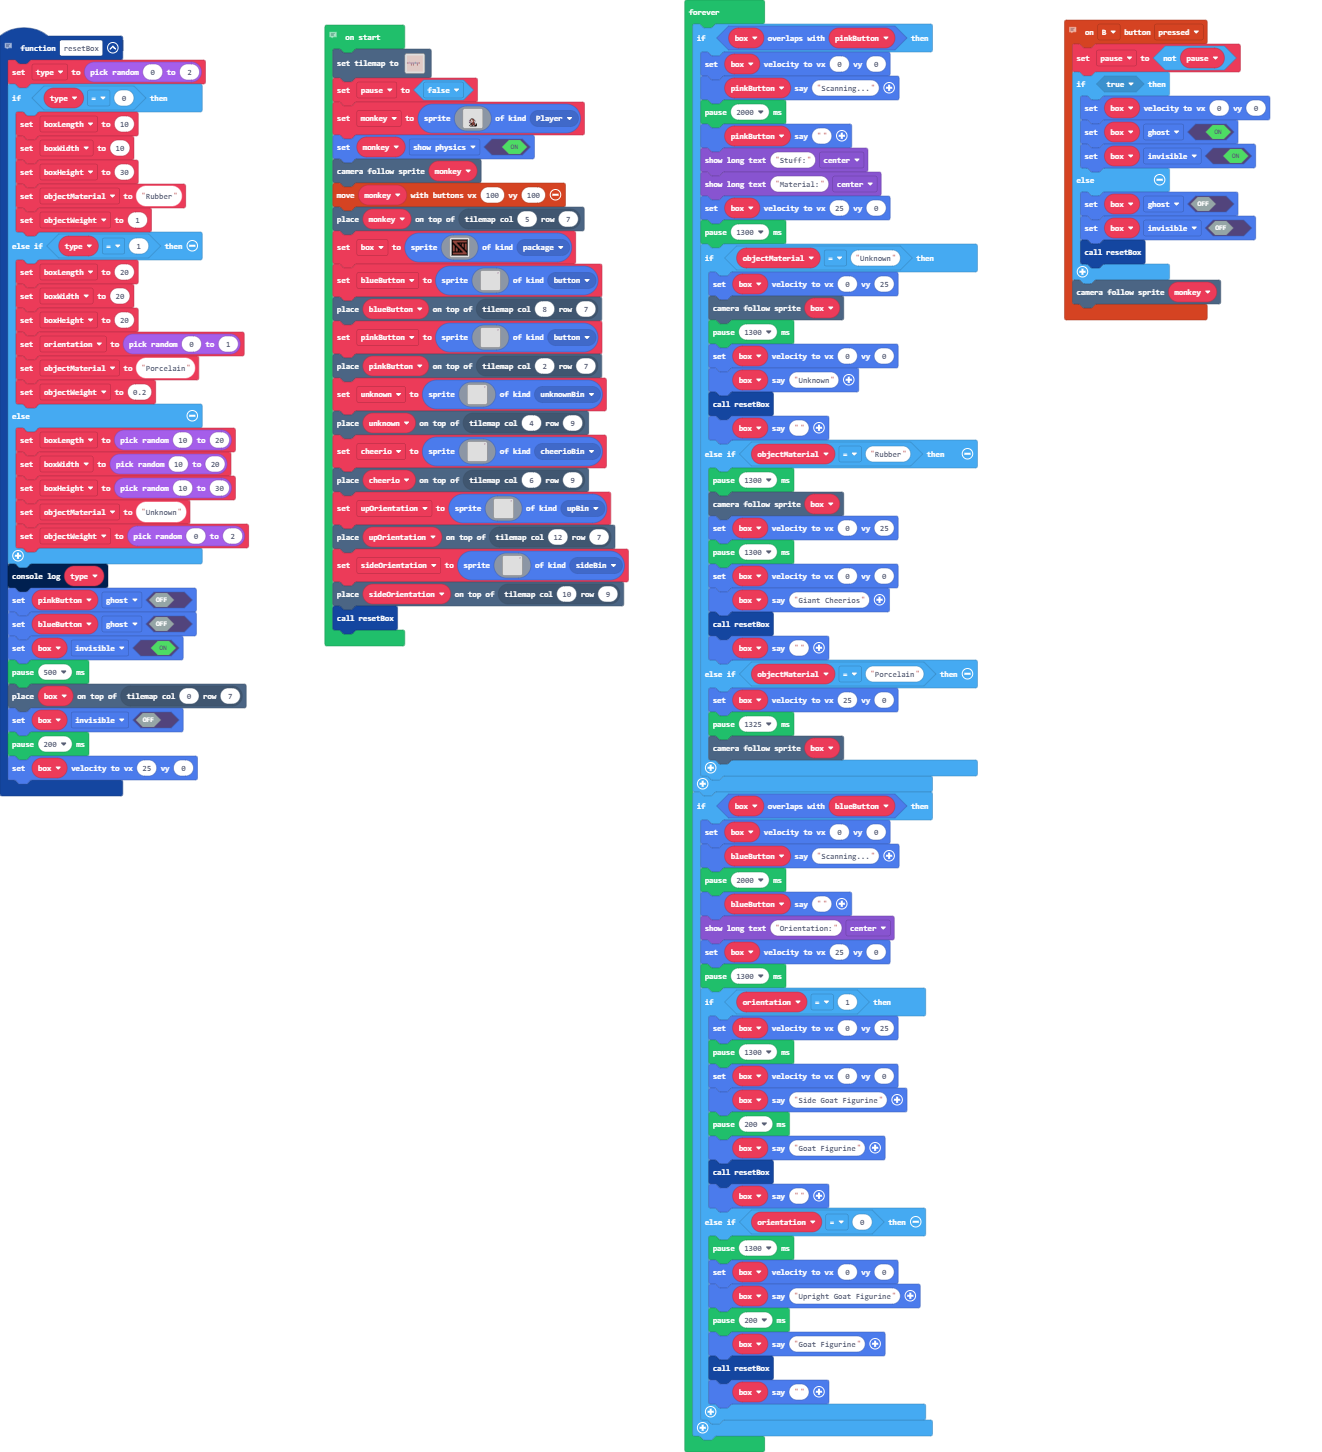
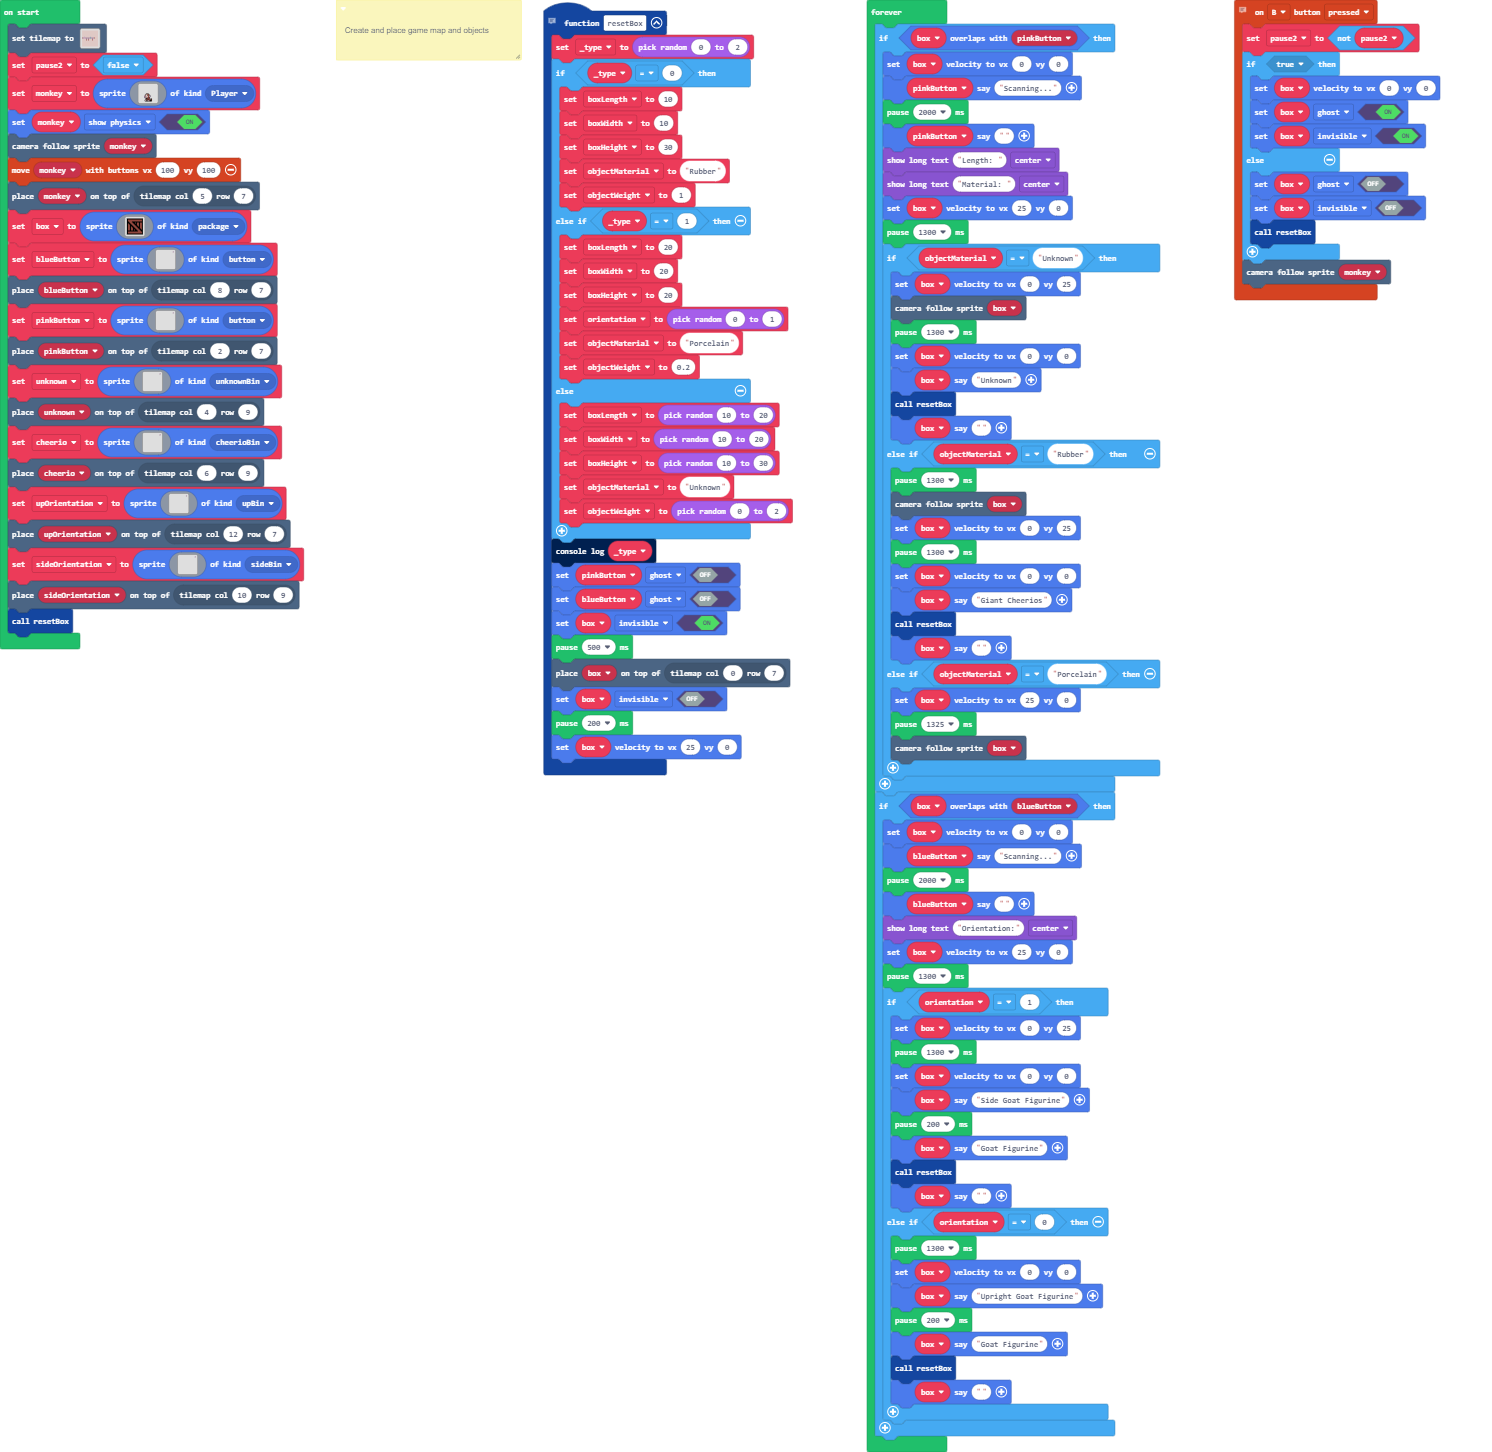
Update pxt.json, main.blocks, main.ts, tilemap.g.jres, tilemap.g.ts

diff --git a/main.ts b/main.ts
@@ -55,7 +55,9 @@ function resetBox () {
     pause(200)
     box.setVelocity(25, 0)
 }
-// Create and place game map and objects
+/**
+ * Create and place game map and objects
+ */
 let orientation = 0
 let objectWeight = 0
 let objectMaterial = ""
@@ -68,24 +70,7 @@ let blueButton: Sprite = null
 let box: Sprite = null
 let monkey: Sprite = null
 let pause2 = false
-tiles.setTilemap(tiles.createTilemap(hex`1000100004040404040404040404040404040404040404040404040404040404040404040404040404040404040404040404040404040404040404040404040404040404040404040404040404040404040404040404040404040404040404040404040404040704040404040704040404040404080105010901090106010901030404040404040402040204040402040404040404040404030403040404030404040404040404040404040404040404040404040404040404040404040404040404040404040404040404040404040404040404040404040404040404040404040404040404040404040404040404040404040404040404040404040404040404040404`, img`
-    . . . . . . . . . . . . . . . . 
-    . . . . . . . . . . . . . . . . 
-    . . . . . . . . . . . . . . . . 
-    . . . . . . . . . . . . . . . . 
-    . . . . . . . . . . . . . . . . 
-    . . . . . . . . . . . . . . . . 
-    . . . . . . . . . . . . . . . . 
-    . . . . . . . . . . . . . . . . 
-    . . . . . . . . . . . . . . . . 
-    . . . . . . . . . . . . . . . . 
-    . . . . . . . . . . . . . . . . 
-    . . . . . . . . . . . . . . . . 
-    . . . . . . . . . . . . . . . . 
-    . . . . . . . . . . . . . . . . 
-    . . . . . . . . . . . . . . . . 
-    . . . . . . . . . . . . . . . . 
-    `, [myTiles.transparency16,sprites.vehicle.roadHorizontal,sprites.vehicle.roadVertical,sprites.dungeon.chestClosed,sprites.dungeon.floorLight2,sprites.dungeon.buttonPink,sprites.dungeon.buttonTeal,myTiles.tile1,sprites.dungeon.chestOpen,myTiles.tile2], TileScale.Sixteen))
+tiles.setTilemap(tilemap`level`)
 pause2 = false
 monkey = sprites.create(img`
     ................................
@@ -262,10 +247,12 @@ forever(function () {
     if (box.overlapsWith(pinkButton)) {
         box.setVelocity(0, 0)
         pinkButton.say("Scanning...")
-        pause(2000)
+        pause(1000)
         pinkButton.say("")
-        game.showLongText("Stuff:", DialogLayout.Center)
-        game.showLongText("Material:", DialogLayout.Center)
+        game.showLongText("Length: "+ boxLength.toString() + "\n\nWidth: " + 
+        boxWidth.toString() + "\n\n\n\nHeight: " + boxHeight.toString() + 
+        "\n\n\n\n\nWeight: " + objectWeight.toString(), DialogLayout.Center)
+        game.showLongText("Material: " + objectMaterial, DialogLayout.Center)
         box.setVelocity(25, 0)
         pause(1300)
         if (objectMaterial == "Unknown") {
@@ -294,25 +281,28 @@ forever(function () {
     if (box.overlapsWith(blueButton)) {
         box.setVelocity(0, 0)
         blueButton.say("Scanning...")
-        pause(2000)
+        pause(1000)
         blueButton.say("")
-        game.showLongText("Orientation:", DialogLayout.Center)
-        box.setVelocity(25, 0)
-        pause(1300)
         if (orientation == 1) {
+            game.showLongText("Orientation: Side", DialogLayout.Center)
+            box.setVelocity(25, 0)
+            pause(1300)
             box.setVelocity(0, 25)
             pause(1300)
             box.setVelocity(0, 0)
-            box.say("Side Goat Figurine")
-            pause(200)
+            box.say("Side")
+            pause(500)
             box.say("Goat Figurine")
             resetBox()
             box.say("")
         } else if (orientation == 0) {
+            game.showLongText("Orientation: Upright", DialogLayout.Center)
+            box.setVelocity(25, 0)
+            pause(1300)
             pause(1300)
             box.setVelocity(0, 0)
-            box.say("Upright Goat Figurine")
-            pause(200)
+            box.say("Upright")
+            pause(500)
             box.say("Goat Figurine")
             resetBox()
             box.say("")

diff --git a/tilemap.g.ts b/tilemap.g.ts
@@ -7,5 +7,29 @@ namespace myTiles {
     //% fixedInstance jres blockIdentity=images._tile
     export const tile2 = image.ofBuffer(hex``);
 
+    helpers.registerTilemapFactory(function(name: string) {
+        switch(helpers.stringTrim(name)) {
+            case "level": return tiles.createTilemap(hex`1000100004040404040404040404040404040404040404040404040404040404040404040404040404040404040404040404040404040404040404040404040404040404040404040404040404040404040404040404040404040404040404040404040404040704040404040704040404040404080105010901090106010901030404040404040402040204040402040404040404040404030403040404030404040404040404040404040404040404040404040404040404040404040404040404040404040404040404040404040404040404040404040404040404040404040404040404040404040404040404040404040404040404040404040404040404040404`, img`
+. . . . . . . . . . . . . . . . 
+. . . . . . . . . . . . . . . . 
+. . . . . . . . . . . . . . . . 
+. . . . . . . . . . . . . . . . 
+. . . . . . . . . . . . . . . . 
+. . . . . . . . . . . . . . . . 
+. . . . . . . . . . . . . . . . 
+. . . . . . . . . . . . . . . . 
+. . . . . . . . . . . . . . . . 
+. . . . . . . . . . . . . . . . 
+. . . . . . . . . . . . . . . . 
+. . . . . . . . . . . . . . . . 
+. . . . . . . . . . . . . . . . 
+. . . . . . . . . . . . . . . . 
+. . . . . . . . . . . . . . . . 
+. . . . . . . . . . . . . . . . 
+`, [myTiles.transparency16,sprites.vehicle.roadHorizontal,sprites.vehicle.roadVertical,sprites.dungeon.chestClosed,sprites.dungeon.floorLight2,sprites.dungeon.buttonPink,sprites.dungeon.buttonTeal,myTiles.tile1,sprites.dungeon.chestOpen,myTiles.tile2], TileScale.Sixteen)
+        }
+        return null;
+    })
+
 }
 // Auto-generated code. Do not edit.
